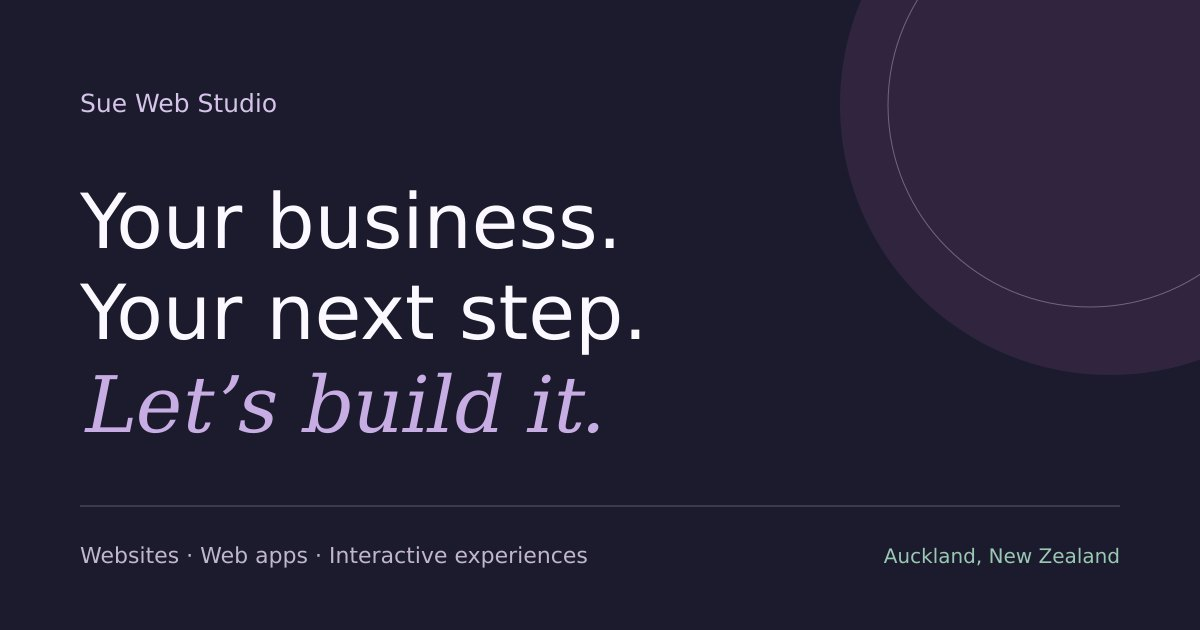
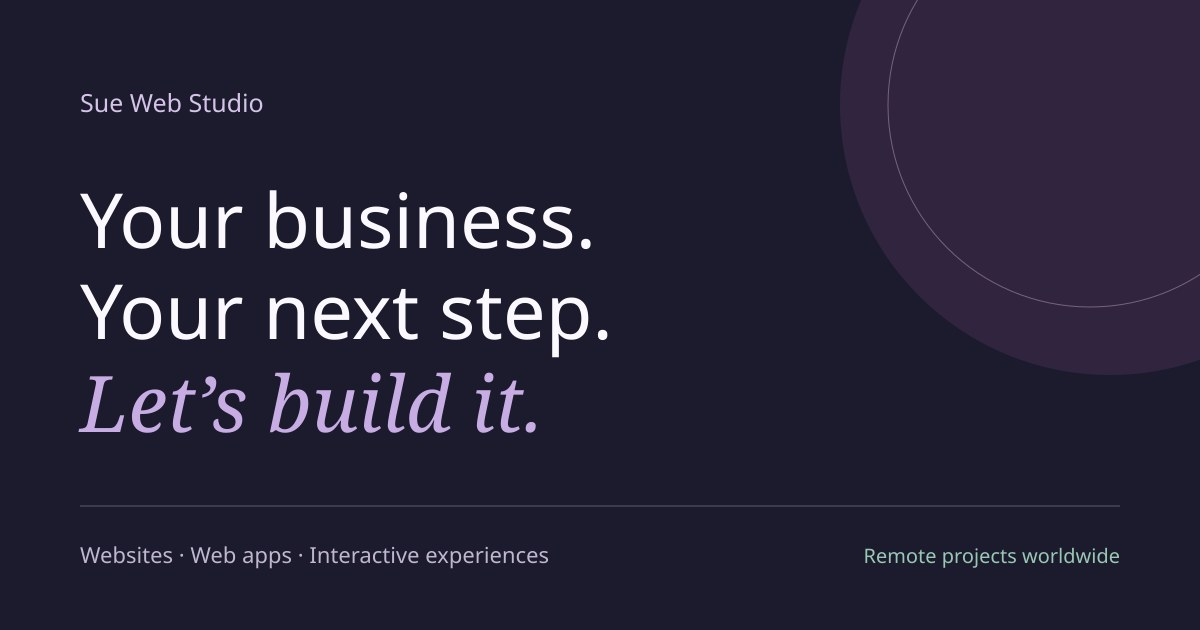
Show worldwide availability and simplify test commands

diff --git a/src/index.html b/src/index.html
@@ -1,14 +1,14 @@
 <!doctype html>
-<html lang="en-NZ">
+<html lang="en">
   <head>
     <meta charset="utf-8" />
-    <title>Websites & Business Web Apps Auckland | Sue Web Studio</title>
+    <title>Websites & Custom Business Apps | Sue Web Studio</title>
     <base href="/" />
     <meta name="viewport" content="width=device-width, initial-scale=1" />
     <meta name="theme-color" content="#1b1b2d" />
     <meta
       name="description"
-      content="Auckland web developer Sue Zadeh builds business websites, custom web apps, dashboards and interactive experiences. Explore real projects and discuss your idea."
+      content="Sue Zadeh builds business websites, custom web apps, dashboards and interactive experiences. Available for remote projects worldwide."
     />
     <meta name="author" content="Sue Zadeh" />
     <meta name="robots" content="index,follow,max-image-preview:large" />
@@ -16,12 +16,11 @@
     <link rel="canonical" href="https://suewebstudio.com/" />
     <link rel="icon" href="/favicon.svg" type="image/svg+xml" />
     <link rel="apple-touch-icon" href="/apple-touch-icon.png" />
-    <meta property="og:locale" content="en_NZ" />
     <meta property="og:site_name" content="Sue Web Studio" />
     <meta property="og:title" content="Your business. Your next step. Let’s build it." />
     <meta
       property="og:description"
-      content="Business websites, custom web apps and interactive experiences. Built by Sue Zadeh in Auckland, New Zealand."
+      content="Business websites, custom web apps and interactive experiences. Built by Sue Zadeh for clients worldwide."
     />
     <meta property="og:type" content="website" />
     <meta property="og:url" content="https://suewebstudio.com/" />
@@ -30,10 +29,10 @@
     <meta property="og:image:height" content="630" />
     <meta
       property="og:image:alt"
-      content="Sue Web Studio — websites, web apps and ideas brought to life in Auckland, New Zealand"
+      content="Sue Web Studio — websites, web apps and remote projects worldwide"
     />
     <meta name="twitter:card" content="summary_large_image" />
-    <meta name="twitter:title" content="Sue Web Studio | Auckland Web Developer" />
+    <meta name="twitter:title" content="Sue Web Studio | Independent Web Developer" />
     <meta
       name="twitter:description"
       content="Websites, custom business apps and interactive experiences. Explore Sue’s work and talk about your next project."
@@ -48,26 +47,17 @@
         "@context": "https://schema.org",
         "@graph": [
           {
-            "@type": "ProfessionalService",
+            "@type": "Organization",
             "@id": "https://suewebstudio.com/#business",
             "name": "Sue Web Studio",
             "url": "https://suewebstudio.com/",
-            "description": "Auckland web developer building business websites, custom web apps, dashboards and interactive web experiences.",
+            "description": "Independent web studio building business websites, custom web apps and interactive experiences for clients worldwide.",
             "image": "https://suewebstudio.com/social-card.jpg",
             "logo": "https://suewebstudio.com/apple-touch-icon.png",
             "email": "suezadeh@suewebstudio.com",
             "telephone": "+64212049836",
             "founder": { "@id": "https://suewebstudio.com/#sue" },
-            "address": {
-              "@type": "PostalAddress",
-              "addressLocality": "Auckland",
-              "addressRegion": "Auckland",
-              "addressCountry": "NZ"
-            },
-            "areaServed": [
-              { "@type": "City", "name": "Auckland" },
-              { "@type": "Country", "name": "New Zealand" }
-            ],
+            "areaServed": "Worldwide",
             "hasOfferCatalog": {
               "@type": "OfferCatalog",
               "name": "Web development services",
@@ -115,7 +105,7 @@
             "name": "Sue Web Studio",
             "url": "https://suewebstudio.com/",
             "publisher": { "@id": "https://suewebstudio.com/#business" },
-            "inLanguage": "en-NZ"
+            "inLanguage": "en"
           }
         ]
       }

diff --git a/src/app/app.spec.ts b/src/app/app.spec.ts
@@ -29,7 +29,7 @@ describe('One-page studio experience', () => {
     ])
       expect(page.querySelector('#' + section)).toBeTruthy();
     expect(page.querySelectorAll('[data-aos]')).toHaveLength(0);
-    expect(page.textContent).toContain('Lion & Sun Society NZ');
+    expect(page.textContent).toContain('Lion & Sun Society');
     expect(page.textContent).not.toContain('Hello, sue-portfolio');
   });
   it('opens and closes the mobile menu with matching accessibility state', async () => {
@@ -140,7 +140,7 @@ describe('One-page studio experience', () => {
     expect(fixture.nativeElement.querySelectorAll('article')).toHaveLength(4);
     expect(fixture.nativeElement.textContent).toContain('SAMCT Villages');
     expect(fixture.nativeElement.textContent).toContain('ShowerPower');
-    expect(fixture.nativeElement.textContent).not.toContain('Lion & Sun Society NZ');
+    expect(fixture.nativeElement.textContent).not.toContain('Lion & Sun Society');
     expect(button.getAttribute('aria-pressed')).toBe('true');
   });
   it('shows in-progress project status and uses accessible real project links', () => {
@@ -161,7 +161,7 @@ describe('One-page studio experience', () => {
     expect(cards[0].querySelector('.project-category')?.textContent).toContain('Launched');
     expect(cards[0].querySelector('a')?.getAttribute('href')).toBe('https://samplvillages.org.nz/');
     expect(cards[0].querySelector('a')?.textContent).toContain('Visit website');
-    expect(cards[8].querySelector('h3')?.textContent).toBe('Senior Healthcare Auckland');
+    expect(cards[8].querySelector('h3')?.textContent).toBe('Senior Healthcare');
     const lion = cards[1];
     expect(lion.textContent).toContain('donation page');
     expect(lion.textContent).toContain('email notifications');
@@ -172,9 +172,9 @@ describe('One-page studio experience', () => {
     filter.click();
     fixture.detectChanges();
     expect(page.textContent).toContain('SAMCT Villages');
-    expect(page.textContent).toContain('Lion & Sun Society NZ');
+    expect(page.textContent).toContain('Lion & Sun Society');
     expect(page.textContent).toContain('FieldSafe');
-    expect(page.textContent).not.toContain('Senior Healthcare Auckland');
+    expect(page.textContent).not.toContain('Senior Healthcare');
   });
 });
 

diff --git a/src/app/components/contact/contact.html b/src/app/components/contact/contact.html
@@ -14,10 +14,8 @@
         <span aria-hidden="true"
           ><svg class="arrow-icon" aria-hidden="true" viewBox="0 0 24 24">
             <path d="M7 17 17 7M7 7h10v10" /></svg></span></a
-      ><a class="contact-phone" href="tel:+64212049836">021 204 9836</a>
-      <p class="contact-location">
-        Auckland’s North Shore · New Zealand<br />Remote projects welcome.
-      </p>
+      ><a class="contact-phone" href="tel:+64212049836">+64 21 204 9836</a>
+      <p class="contact-location">Remote projects welcome worldwide.</p>
       <div class="next-step">
         <span aria-hidden="true">✦</span>
         <p>
@@ -182,7 +180,7 @@
               Sue Web Studio uses the details you submit to respond to your enquiry and discuss your
               project. Enquiries are stored in the website’s database and sent to my business inbox
               through an email provider. Hosting and email providers process this information to run
-              the service, and may store it outside New Zealand. Please don’t include passwords,
+              the service and may store it internationally. Please don’t include passwords,
               payment details, or sensitive personal information. Your details aren’t added to a
               marketing list or sold. To ask about, correct, or delete an enquiry, email
               <a href="mailto:suezadeh@suewebstudio.com">suezadeh&#64;suewebstudio.com</a>. Basic

diff --git a/src/app/components/projects/projects.ts b/src/app/components/projects/projects.ts
@@ -33,7 +33,7 @@ export const STUDIO_PROJECTS: readonly StudioProject[] = [
     featured: true,
   },
   {
-    title: 'Lion & Sun Society NZ',
+    title: 'Lion & Sun Society',
     categories: ['Organisations & communities', 'Admin dashboards'],
     image: '/images/lionandsun.webp',
     description:
@@ -64,7 +64,7 @@ export const STUDIO_PROJECTS: readonly StudioProject[] = [
     categories: ['Admin dashboards', 'Organisations & communities'],
     image: '/images/fieldsafe.webp',
     description:
-      'An operations dashboard for Conservation Volunteers New Zealand, bringing field activities, risks, staff, and volunteers into one workflow.',
+      'An operations dashboard for conservation teams, bringing field activities, risks, staff, and volunteers into one workflow.',
     built:
       'React and TypeScript, Node.js APIs, MySQL, role-based access, AWS deployment, and offline PWA features using IndexedDB.',
     value:
@@ -121,7 +121,7 @@ export const STUDIO_PROJECTS: readonly StudioProject[] = [
     tags: ['Community app', 'Member features', 'Full stack'],
   },
   {
-    title: 'Senior Healthcare Auckland',
+    title: 'Senior Healthcare',
     categories: ['Business websites'],
     image: '/images/healthcare.webp',
     description:

diff --git a/src/app/components/work-showcase/work-showcase.ts b/src/app/components/work-showcase/work-showcase.ts
@@ -21,12 +21,12 @@ export class WorkShowcaseComponent {
   readonly projects: readonly ShowcaseProject[] = [
     {
       id: 'lion-and-sun',
-      title: 'Lion & Sun Society NZ',
+      title: 'Lion & Sun Society',
       address: 'lionandsun.up.railway.app',
       image: '/images/lionandsun.webp',
-      alt: 'Lion & Sun Society NZ bilingual community website preview',
-      width: 1200,
-      height: 824,
+      alt: 'Artwork from the Lion & Sun Society community website',
+      width: 498,
+      height: 332,
       status: 'In progress',
       summary: 'Bilingual content, a donation page and a private owner area.',
     },
@@ -46,9 +46,9 @@ export class WorkShowcaseComponent {
       title: 'SAMCT Villages',
       address: 'samplvillages.org.nz',
       image: '/images/samct.webp',
-      alt: 'SAMCT Villages public website for a launched retirement village platform',
-      width: 920,
-      height: 912,
+      alt: 'Public website features for the SAMCT Villages retirement platform',
+      width: 330,
+      height: 220,
       status: 'Launched platform',
       summary: 'A public website and portals for residents and village teams.',
     },

diff --git a/src/app/components/about/about.html b/src/app/components/about/about.html
@@ -3,7 +3,7 @@
     <div class="portrait-wrap" appReveal revealEffect="fade-right">
       <img
         src="/images/sue.webp"
-        alt="Sue Zadeh, independent web developer based in Auckland"
+        alt="Sue Zadeh, independent web developer"
         width="600"
         height="750"
         loading="lazy"
@@ -15,8 +15,8 @@
       <p class="eyebrow">A person behind your project</p>
       <h2 id="about-title">Hi, I’m Sue.<br />I’ll be the one building it.</h2>
       <p>
-        I’m a full-stack web developer based on Auckland’s North Shore. I work with businesses and
-        community organisations to turn their ideas into websites and web apps people can use.
+        I’m a full-stack web developer. I work with businesses and community organisations
+        worldwide to turn their ideas into websites and web apps people can use.
       </p>
       <p>
         My work includes business websites, fieldwork dashboards, membership platforms, and

diff --git a/src/app/components/home/home.html b/src/app/components/home/home.html
@@ -2,7 +2,7 @@
   <div class="shell hero-grid">
     <div class="hero-copy">
       <p class="eyebrow" appReveal data-aos-duration="900">
-        <span aria-hidden="true" class="status-dot"></span> Independent web developer · Auckland, NZ
+        <span aria-hidden="true" class="status-dot"></span> Independent web developer
       </p>
       <h1 id="hero-title" appReveal [revealDelay]="50" data-aos-duration="1100">
         Your business.<br />Your next step.<br /><em>Let’s build it.</em>
@@ -23,7 +23,7 @@
         >
       </div>
       <p class="hero-location" appReveal [revealDelay]="200" data-aos-duration="900">
-        Based on Auckland’s North Shore. Working across New Zealand.
+        Available for remote projects worldwide.
       </p>
       <a class="hero-team-link" href="#team-opportunities" appReveal [revealDelay]="200">
         <span

diff --git a/src/app/studio-page.ts b/src/app/studio-page.ts
@@ -104,9 +104,9 @@ export class StudioPageComponent {
         'I build clear, search-friendly content and take care of the technical foundations. Search ranking also depends on competition, useful content, genuine reviews, and links to your business. No one can promise a first-place result.',
     },
     {
-      title: 'Do I have to be in Auckland?',
+      title: 'Can we work together remotely?',
       answer:
-        'No. I’m based on Auckland’s North Shore and can work with businesses across New Zealand remotely. We can discuss your project by email, phone, or video call.',
+        'Yes. I work with clients worldwide. We can discuss your project by email, phone, or video call.',
     },
   ];
 }

diff --git a/src/app/components/footer/footer.html b/src/app/components/footer/footer.html
@@ -6,7 +6,7 @@
       >
       <div class="footer-contact">
         <a href="mailto:suezadeh@suewebstudio.com">suezadeh&#64;suewebstudio.com</a
-        ><a href="tel:+64212049836">021 204 9836</a><span>Auckland, New Zealand</span>
+        ><a href="tel:+64212049836">+64 21 204 9836</a><span>Remote projects worldwide</span>
       </div>
       <nav aria-label="Footer navigation">
         <a href="/#services">Services</a><a href="/#projects">Projects</a

diff --git a/src/app/components/navbar/navbar.html b/src/app/components/navbar/navbar.html
@@ -44,7 +44,7 @@
         (click)="closeNavbar('about')"
         >About</a
       >
-      <a class="nav-phone" href="tel:+64212049836">021 204 9836</a>
+      <a class="nav-phone" href="tel:+64212049836">+64 21 204 9836</a>
       <a class="button primary nav-cta" href="/#contact" (click)="closeNavbar('contact')"
         >Let’s talk <svg aria-hidden="true" viewBox="0 0 24 24"><path d="M7 17 17 7M7 7h10v10" /></svg></a
       >

diff --git a/docs/UPDATE_AND_QA_REPORT.md b/docs/UPDATE_AND_QA_REPORT.md
@@ -244,3 +244,11 @@ Static responsive checks used the exact built process markup and CSS in 320 and 
 ## Centred process introduction — 5 November 2026
 
 Applied the existing centred section-heading layout to the process introduction. The eyebrow and title now sit above the centred introduction, followed by the four existing cards. Managed Chromium confirmed that the title and introduction share the same horizontal centre, with a 22 px gap below the title. The production build, 15 built HTML/SEO checks and diff whitespace checks passed. Publication and CI results are recorded in the associated pull request.
+
+## Worldwide availability and test commands — 12 November 2026
+
+The site now describes remote work worldwide in its page copy, FAQ, contact section and search metadata. The sharing card, portrait description, privacy wording and project labels were updated. Five portfolio previews use crops of the existing screenshots to remove embedded place names. The displayed phone number uses its international format. Project links and the enquiry form’s NZD budget currency retain their original meaning.
+
+`npm test` runs both test suites once and exits. `npm run verify` adds the build and production checks. All 111 checks passed, including the new check for location wording in the rendered copy and metadata. The production build had no budget warnings. Chromium loaded all nine project images and opened the revised FAQ and privacy details. Text recognition on the nine displayed previews and sharing card found no matching location wording.
+
+The homepage returned HTTP 200 with a self-canonical URL. The sitemap lists only the homepage. The three old page URLs redirect to their corresponding sections, and the HTTP and hosting aliases lead to the HTTPS homepage. The Search Console emails describe redirect and 404 exclusions without listing their example URLs. The exact examples and Google’s current index status require the signed-in report.

diff --git a/README.md b/README.md
@@ -23,6 +23,8 @@ Copy `.env.example` to an ignored `.env` for local settings. Set up a **separate
 
 ## Verification
 
+Run `npm test` for the server and Angular tests. The command exits when they finish.
+
 ```sh
 npm run verify
 npm audit --omit=dev
